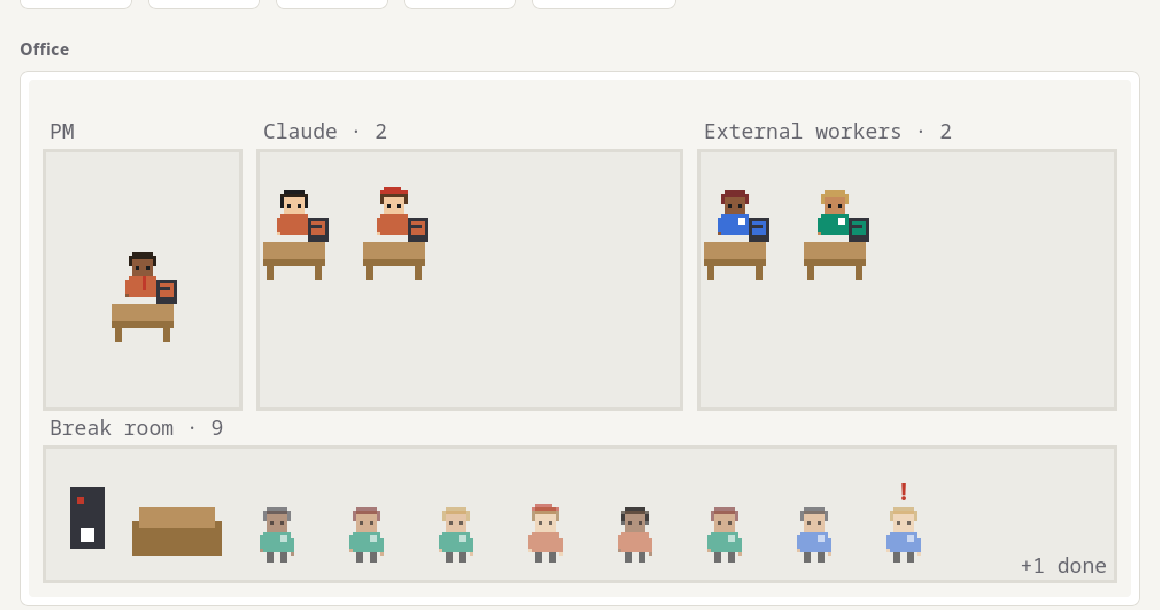
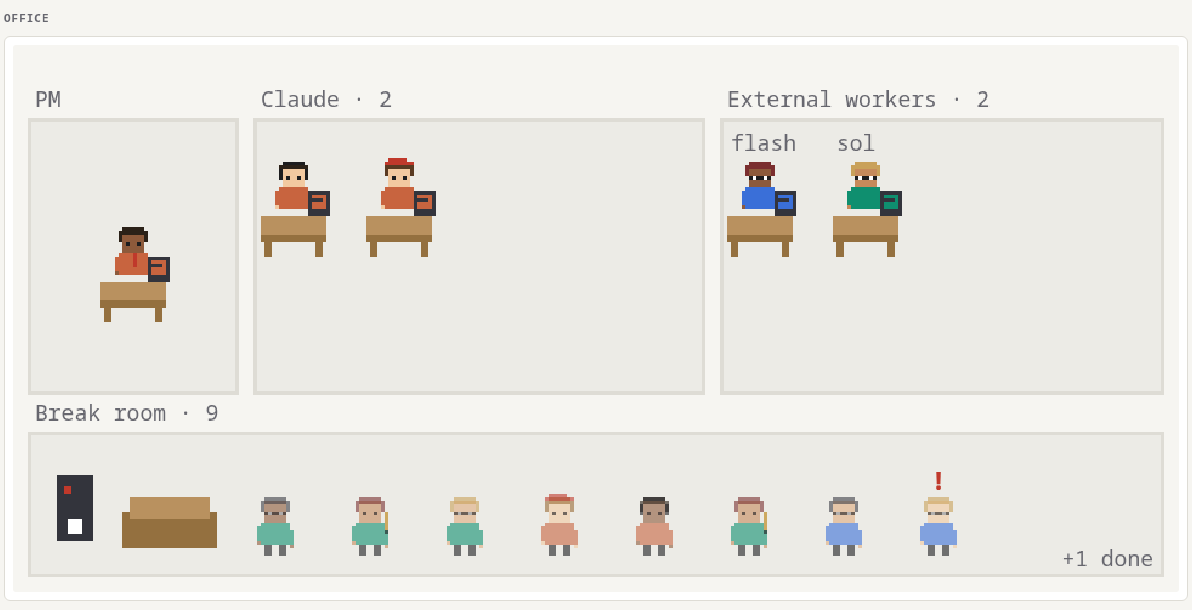
0015 ve 0016: izleme sayfası kararı ve ölçümleri, ortak hafıza taslağı; şerit adında efor yinelenmez, raporda gizli düğmeler, README resimleri ve metinleri

Changed region(s): [[0.0, 0.1246, 0.9931, 0.9967], [0.0621, 0.3738, 0.1552, 0.5607], [0.0, 0.0, 0.0621, 0.0934]]

diff --git a/skills/watch/page.html b/skills/watch/page.html
@@ -269,7 +269,8 @@ function kim(i) {
 // A timeline lane: the role for a Claude agent, the model and effort for an external worker.
 function seritAdi(i) {
   if (i.kaynak === "claude") return String(i.rol || "agent").replace(/^polycrew:/, "");
-  return (i.model || i.kaynak) + (i.efor && i.efor !== "-" ? " " + i.efor : "");
+  const model = i.model || i.kaynak, efor = i.efor && i.efor !== "-" ? String(i.efor) : "";
+  return model + (efor && !String(model).endsWith("-" + efor) ? " " + efor : "");  // agy model names already end in the effort
 }
 function token(n) { return n == null ? "—" : n >= 1e6 ? (n / 1e6).toFixed(2) + "M" : n >= 1e3 ? Math.round(n / 1e3) + "k" : String(n); }
 

diff --git a/docs/decisions/0015-izleme-sayfasi-yeniden-tasarim.md b/docs/decisions/0015-izleme-sayfasi-yeniden-tasarim.md
@@ -1,0 +1,66 @@
+# 0015: İzleme sayfasının yeniden tasarımı
+
+- **Tarih:** 2026-11-12
+- **Durum:** Kabul edildi; `0003`'ün sayfasını yeniden düzenler, `0012`'nin ofisine etiket ekler, `0014`'ün çizelge notunu kapatır.
+
+## Bağlam
+
+Kullanıcı: "izleme sayfası genelde yarım sayfa oluyor, yanda oturum sohbeti var; yarım ekran olunca kaymalar oluyor, özellikle çalışma saatini gösteren kısımda. Ayrıca arayüz çok AI slop duruyor."
+
+Eski sayfa gerçek olay günlüğüyle 560 ve 700 px genişlikte ölçüldü:
+
+| Sorun | Ölçüm |
+|---|---|
+| Eksenin ilk etiketi sol kenarda kesiliyor | 560 px'te `04/10 03:00` yerine `/10 03:00` |
+| Tarihli etiketler yapışıyor | 700 px'te 6 aralığın 6'sı 4 px'ten dar |
+| Etiket sütunu sabit 16rem | 700 px'te 655 px'lik kutunun 378 px'i çubuğa kalıyor |
+| İş başına bir satır | "Hepsi"de 175 iş → çizelge 4240 px |
+| Harita ve tablo yana taşıyor | 700 px'te harita 969/668, tablo 840/666 |
+
+Ortak neden: kırılma noktaları (640, 700 px) pencereye bakıyordu ve yarım panel tam o eşiklere düşüyordu. Görünümde de hiyerarşi yoktu: her şey aynı kenarlıklı kutu, beş eşit sayaç, altı eşit bölüm, aynı iş dört yerde.
+
+![Yeni sayfa 560 px genişlikte, Türkçe, örnek veri](img/0015-yarim-genislik.png)
+
+## Kararlar
+
+1. **Çizelge işçi başına şerit.** Satır bir işçidir: Claude agent'ında rol, dış işçide model ve efor. İşler o şeritte çubuktur; zamanı çakışan işler şeridin alt satırına iner. Çalışanı olan şerit üstte, sonra son etkinliğe göre. Model ayrımı şeritte yok (günlükte aynı model üç ayrı adla geçiyor: `sonnet`, `claude-sonnet-5-5`, boş); iş listesinde ve çubuğun üstüne gelince görünür.
+2. **Eksen ölçülen genişliğe göre.** Adım, etiketleri sığan en küçük adımdır (etiket başına 38 px, gün ve saat birlikteyse 76 px, artı 12 px boşluk; en çok 8 etiket). Kenardan taşacak etiket kenara yaslanır, komşusuna değecek etiket atılır. Günlük adımda etiket yalnız gündür ve yerel gece yarısına düşer (`0014`'te UTC gece yarısı yerelde `03:00` görünüyordu). Panel sürüklenince `ResizeObserver` yeniden çizer.
+3. **Eksen işlerin aralığına oturur.** Kimse çalışmıyorsa son işin bitişinde biter; "şimdi"ye kadar boş uzamaz (`0014`'ün açık notu).
+4. **Beş sayaç kutusu yerine tek durum satırı.** Çalışan ve hata sayıları sıfır değilse renkli; "bilinmiyor" yalnız varsa görünür.
+5. **"Şimdi çalışanlar" yalnız çalışan varken çizilir.**
+6. **İş tablosu yerine tek liste.** Genişte tek satır, 760 px altında üç kısa satır; yana kaymaz. En yeni 40 iş, altında "Tümünü göster (N)".
+7. **Agent haritası her genişlikte girintili ağaç** (sabit 360 px düğümler kalktı) ve katlanır. Yalnız ağacın derinliği varsa (lider ya da agent başlatan agent) kendiliğinden açık gelir; kullanıcının seçimi yenilemede korunur.
+8. **Kırılmalar kapsayıcıya bağlı** (`container-type: inline-size`, `@container`): 760 px (liste), 400 px (şerit etiketi çubuğun üstüne).
+9. **Görsel dil.** Kimlik piksel ofisten: bölüm başlıkları küçük, büyük harf, mono; sayılar mono ve `tabular-nums`. Bölümler kutuyla değil üst çizgi ve boşlukla ayrılır; kenarlıklı yüzey yalnız ofiste, çalışan kartlarında ve yan panelde. Kartların sol renk şeridi kalktı. Başlıkta üç sağlayıcının renginde üç kare. Dış font ve kütüphane yok. Renk değişkenleri aynı (canvas onları okuyor).
+10. **Ofiste etiket (`0012`'nin açığı).** Masadaki işçinin başının üstünde model kısaltması (`gpt-6.1-sol` → `sol`, `gemini-3.8-flash-high` → `flash`); aynı odada aynı etiket birden çoksa başlama sırasıyla numara (`sol1`, `sol2`). Okur gözlüklü, yazar kalemli.
+11. Saf mantık `CIZELGE-MANTIK` işaretleri arasında (`cizelgeSeritler`, `cizelgeEksen`), `OFIS-MANTIK` gibi Node ile test edilir. `watch.py`, `api/durum` ve gömülü raporun veri şeması değişmedi.
+
+### Denenip bırakılanlar
+
+- Şerit adı olarak tam `kim()` (rol + model, model + efor + okur/yazar): "Hepsi"de 28 şerit, 560 px'te 1386 px. Rol ya da model + efor ile 14 şerit, 398 px.
+- Şerit etiketini 560 px altında çubuğun üstüne almak: her şerit iki satır oluyordu. Eşik 400 px'e indi; yarım panelde etiket yanda kalır.
+- Ofis etiketini masanın altına yazmak: ikinci sıranın etiketi odanın dışına, dinlenme köşesinin başlığına taşıyordu. Başın üstüne alındı.
+
+## Ölçümler
+
+Aynı gerçek günlük, "Hepsi" penceresi (177 iş), uygulamanın tarayıcı panelinde:
+
+| Genişlik | Yatay taşma | Eksen etiketi | Üst üste | Kutunun dışında | Şerit | Çizelge yüksekliği |
+|---|---|---|---|---|---|---|
+| 400 px | yok | 7 | 0 | 0 | 14 | 728 px |
+| 560 px | yok | 6 | 0 | 0 | 14 | 398 px (önce 4240) |
+| 700 px | yok | 7 | 0 | 0 | 14 | 398 px |
+| 1100 px | yok | 7 | 0 | 0 | 14 | 398 px |
+
+- 12 saatlik pencerede 560 ve 700 px: 2 şerit, 66 px, etiketler `14:05 14:10`.
+- Durağan rapor (`watch.py report`), 560 px, açık tema: taşma yok, 177 çubuğun hiçbiri şeridin dışında değil.
+- Tarayıcıda görülüp düzeltilenler: 5 haftalık eksende çalışan işin 3 px'lik çubuğu sağ kenarda kesiliyordu (`left: min(…, 100% - 3px)`); raporda pencere düğmeleri `hidden` olduğu hâlde görünüyordu (`.seg { display: inline-flex }` eziyordu; eski sayfada da vardı), `[hidden] { display: none !important }` eklendi.
+- 91 test yeşil (85 + 6): şeritler ve alt satırlar, çalışanın önceliği, eksenin dar genişlikte seyrelmesi ve taşmaması (5 genişlik × 4 aralık), kenar hizası, etiket türü ve yerel gece yarısı, ofis etiketleri.
+- README resimleri örnek günlükle yeniden alındı (`docs/img/ornek_gunluk.py`, `watch.py report`, başsız Chrome 1400 px).
+
+## Açık kalan
+
+- "Hepsi"de haftalara yayılan eksende çubuklar çizgi kalınlığında; oturumlara göre kümeleme ya da yakınlaştırma yok.
+- PM düğümünün süresi işlerin toplamı (paralel işlerde duvar saatinden uzun); eski davranış, dokunulmadı.
+- Çubuklar klavyeyle gezilmiyor; klavye yolu iş listesi ve harita.
+- Gerçek bir takım oturumunda yarım panelde bu oturum boyunca açık kaldı (iki işçi çalışırken); başka bir projede denenmedi.

diff --git a/skills/watch/SKILL.md b/skills/watch/SKILL.md
@@ -16,11 +16,11 @@ Events are collected in one log (`hooks/events.py`, decision `0003`): Claude sub
    - in VS Code: `Ctrl+Shift+P → Simple Browser: Show` with the address;
    - otherwise give the address for a browser.
    The plugin cannot open it by itself: hooks only print text, and a server started from a hook does not outlive it.
-3. The page is in English and Turkish (by browser language; the EN/TR button or `?lang=tr`). It refreshes every 3 seconds: who is running now, the timeline (Claude orange, Codex green, Gemini blue), the agent map, quota bars (external quota once a minute via `external-agent.sh quota`), jobs and scores. Clicking a job or a map node shows its last report and task in the side panel.
+3. The page is in English and Turkish (by browser language; the EN/TR button or `?lang=tr`). It refreshes every 3 seconds: a status line, the office, who is running now, quota bars (external quota once a minute via `external-agent.sh quota`), the timeline (one lane per worker; Claude orange, Codex green, Gemini blue), jobs and scores, the agent map. Clicking a bar, a job or a map node shows its last report and task in the side panel. The layout follows the page's own width, so it reads in the half-width browser pane next to the chat.
 
 ## Office
 
-The first section of the page is a small pixel office. The PM sits on the left; every running Claude agent sits at a desk in the Claude room and every running external worker (Codex, agy) in the external workers' room, typing, with the monitor in the provider's color. Finished jobs stand in the break room, dimmed: the last 8, the rest as "+N done". A failed job has a red "!" over its head, an unknown one a "?". Each role has a small accessory (developer headphones, reviewer magnifier, artist beret, designer ruler, researcher book, lead tie). Hovering shows who it is and what it is doing; a click opens the same side panel as everywhere else. It is a picture of the same data: the cards, the map and the table below remain the accessible, complete view.
+The first section of the page is a small pixel office. The PM sits on the left; every running Claude agent sits at a desk in the Claude room and every running external worker (Codex, agy) in the external workers' room, typing, with the monitor in the provider's color. Finished jobs stand in the break room, dimmed: the last 8, the rest as "+N done". A failed job has a red "!" over its head, an unknown one a "?". Each role has a small accessory (developer headphones, reviewer magnifier, artist beret, designer ruler, researcher book, lead tie; an external worker wears glasses when read-only and holds a pencil when it writes). A worker at a desk has a short label from its model name (`sol`, `flash`), numbered when several share it (`sol1`, `sol2`). Hovering shows who it is and what it is doing; a click opens the same side panel as everywhere else. It is a picture of the same data: the timeline, the job list and the map below remain the accessible, complete view.
 
 ## Claude quota
 
@@ -39,7 +39,7 @@ The Claude card comes first; context is a separate thin row. With no Claude meas
 
 ## Agent map
 
-The jobs in the selected time window appear as a PM → lead → worker tree. External workers (Codex, agy) sit directly under the PM. Nodes show role, model (if known), provider color, state, duration and score if any; a click or Enter/space opens the side panel. The same tree is embedded in the session report.
+The jobs in the selected time window appear as an indented PM → lead → worker tree, folded until the tree has depth (a lead, or an agent that started agents). External workers (Codex, agy) sit directly under the PM. Nodes show role, model (if known), provider color, state, duration and score if any; a click or Enter/space opens the side panel. The same tree is embedded in the session report.
 
 The parent link comes from the hook's `ham.parent_agent_id`, `ham.parent_session_id`, the launch payload's `ham.agent_id`, or a `ham.transcript_path` that belongs to the parent agent. `ham.session_id` counts as a parent only if it matches a known agent or agent session id; the shared PM session id alone is no proof of a link. If no link is found, the parent is outside the selected window, or there is a cycle, the node attaches to the PM (decision `0005`). The real log's current samples carry no explicit parent field; those jobs stay under the PM.
 

diff --git a/README.tr.md b/README.tr.md
@@ -115,13 +115,13 @@ Ardından açık oturumda `/reload-plugins` çalıştır ya da yeni bir oturum a
 
 Sayfa `http://localhost:8770` adresinde açılır. Oturumun planında takım ya da dış işçi işi varsa `/session-start` onu kendisi açar, `/team` de açık olduğuna bakar. Claude masaüstü uygulamasında yerleşik tarayıcı panesinde açılır; VS Code'da `Ctrl+Shift+P → Simple Browser: Show` ile. Kanca bunu senin yerine yapamaz: kancalar yalnız metin basar, kancadan başlatılan sunucu onunla birlikte kapanır. İngilizce ve Türkçedir: tarayıcının diline göre açılır, EN/TR düğmeleri ya da `?lang=tr` ile değişir. Birkaç saniyede bir yenilenir ve şunları gösterir:
 
-- **Ofis:** küçük bir piksel ofis. PM solda oturur; çalışan Claude agent'ları ve dış işçiler kendi odalarında masalarında, işi bitenler dinlenme köşesinde durur (hata alanın başında kırmızı "!" olur). Bir figürün üstüne gelince kim olduğu görünür, tıklayınca raporu açılır.
+- **Ofis:** küçük bir piksel ofis. PM solda oturur; çalışan Claude agent'ları ve dış işçiler kendi odalarında masalarında, işi bitenler dinlenme köşesinde durur (hata alanın başında kırmızı "!" olur). Masadaki işçinin üstünde modelinden kısa bir etiket vardır (`sol`, `flash`; aynısı birden çoksa `sol1`, `sol2`), okur gözlüklü, yazar kalemlidir. Bir figürün üstüne gelince kim olduğu görünür, tıklayınca raporu açılır.
 - **Şimdi çalışanlar:** rol ya da model, iş, geçen süre.
-- **Agent haritası:** soldan sağa bir ağaç; kökte PM, dallarında başlattığı işçiler (Claude rolleri, Codex, Gemini). Çalışan işçi yeşildir ve nabız gibi atar, biten solar, üstte sayım durur. "Kim ne yapıyor, kimi kim başlattı" sorusunu tek bakışta yanıtlar.
-- **Zaman çizelgesi:** Claude turuncu, Codex yeşil, Gemini mavi. Bir şeride tıklayınca işçinin son raporu ve görevi açılır.
+- **Zaman çizelgesi:** işçi başına bir şerit (Claude agent'ında rol, dış işçide model), işleri çubuk olarak; aynı anda koşan işler şeridin içinde alt alta durur. Claude turuncu, Codex yeşil, Gemini mavi. Eksen sayfanın genişliğine göre kurulur, yarım panelde de okunur. Bir çubuğa tıklayınca işçinin son raporu ve görevi açılır.
 - **Kota:** sağlayıcı başına bir kart, son ölçümüyle: Codex'in 5 saatlik ve haftalık penceresi, Gemini, agy üzerinden Claude ve Claude Code'un kendisi. Pencerenin yenilenme saatinden eski ölçüm soluk ve "eski ölçüm" etiketiyle görünür.
   - Claude'un kendi kullanımı CLI'dan okunmuyor. PM onu okur (masaüstü uygulamasının kullanım aracı ya da `/usage`) ve `skills/watch/claude-quota.py --five-hour <%> --week <%> ...` ile yazar; betik argümansız son ölçümü yazdırır, 5 saatlik pencerenin %80'inde ya da haftanın %70'inde uyarır. Kendiliğinden güncellenmez.
-- **İşler ve puanlar:** süre, token, durum ve PM'in gerekçeli 1–5 puanı.
+- **İşler ve puanlar:** süre, token, durum ve PM'in gerekçeli 1–5 puanı; en yeni 40 iş, gerisi düğmeyle.
+- **Agent haritası:** girintili bir ağaç; kökte PM, altında başlattığı işçiler (Claude rolleri, Codex, Gemini). Çalışan işçi yeşil ve nabız gibi atar, biten solar, başlıkta sayım durur. Lider ya da iç içe agent ağaca derinlik verene kadar katlı gelir.
 
 Arka planda:
 
@@ -131,7 +131,7 @@ Arka planda:
 - Tek sunucu bütün projelere hizmet eder. Tek projeyi görmek için `http://localhost:8770/?project=<ad>`; üstteki seçici değiştirir. Parametresiz sayfa bütün projeleri gösterir.
 - Resimler örnek bir günlükten: `docs/img/ornek_gunluk.py en|tr <dosya>`.
 
-![Canlı takım sayfasının tamamı: sayaçlar, ofis, şimdi çalışanlar, zaman çizelgesi, agent haritası, sağlayıcı başına kota kartları, işler ve puanlar](docs/img/izle-tr.png)
+![Canlı takım sayfasının tamamı: durum satırı, ofis, şimdi çalışanlar, sağlayıcı başına kota, işçi başına şeritli zaman çizelgesi, işler ve puanlar, agent haritası](docs/img/izle-tr.png)
 
 ## Kadro (`roster.py`)
 

diff --git a/README.md b/README.md
@@ -100,13 +100,13 @@ Then run `/reload-plugins` in an open session, or start a new one.
 
 The page runs at `http://localhost:8770`. `/session-start` opens it by itself when the session's plan includes team or external work, and `/team` makes sure it is up. In the Claude desktop app it opens in the built-in browser pane; in VS Code, open it with `Ctrl+Shift+P → Simple Browser: Show`. A hook cannot start it for you: hooks only print text, and a server started from a hook dies with it. It is in English and Turkish: it follows your browser language, and the EN/TR buttons or `?lang=en` switch it. It refreshes every few seconds and shows:
 
-- **Office:** a small pixel office. The PM sits on the left, running Claude agents and running external workers sit at desks in their own rooms, and finished jobs stand in the break room (a failed one has a red "!"). Hover a figure to see who it is, click it for its report.
+- **Office:** a small pixel office. The PM sits on the left, running Claude agents and running external workers sit at desks in their own rooms, and finished jobs stand in the break room (a failed one has a red "!"). A worker at a desk carries a short label from its model (`sol`, `flash`; `sol1`, `sol2` when several share one), a read-only worker wears glasses and a writer holds a pencil. Hover a figure to see who it is, click it for its report.
 - **Running now:** role or model, task, elapsed time.
-- **Agent map:** a left-to-right tree with the PM at the root and the workers it started (Claude roles, Codex, Gemini) as branches. Running workers are green and pulse, finished ones fade, and a count sits on top. It answers "who is doing what, and who started whom" at a glance.
-- **Timeline:** Claude in orange, Codex in green, Gemini in blue. Click a bar to see the worker's last report and its task.
+- **Timeline:** one lane per worker (the role for a Claude agent, the model for an external worker) with its jobs as bars; jobs that ran at the same time stack inside the lane. Claude in orange, Codex in green, Gemini in blue. The axis fits the width of the page, so it stays readable in a half-width pane. Click a bar to see the worker's last report and its task.
 - **Quotas:** one card per provider with its latest measurement: Codex 5-hour and weekly windows, Gemini, Claude through agy, and Claude Code itself. A measurement older than the window's reset time is dimmed and marked as stale.
   - Claude's own usage cannot be read from the CLI. The PM reads it (the desktop app's usage tool, or `/usage`) and records it with `skills/watch/claude-quota.py --five-hour <%> --week <%> ...`; without arguments the script prints the last measurement, and it warns at 80% of the 5-hour window or 70% of the week. It does not update by itself.
-- **Jobs and scores:** duration, tokens, status and the PM's 1–5 score with a reason.
+- **Jobs and scores:** duration, tokens, status and the PM's 1–5 score with a reason; the newest 40, with a button for the rest.
+- **Agent map:** an indented tree with the PM at the root and the workers it started (Claude roles, Codex, Gemini) under it. Running workers pulse green, finished ones fade, and a count sits in the heading. It is folded until a lead or a nested agent gives the tree some depth.
 
 Under the hood:
 
@@ -116,7 +116,7 @@ Under the hood:
 - One server serves every project. Open `http://localhost:8770/?project=<name>` to see one project; the selector at the top switches. Without it the page shows all projects.
 - The screenshots come from an example log: `docs/img/ornek_gunluk.py en|tr <file>`.
 
-![The whole live team page: counters, office, running now, timeline, agent map, quota cards for each provider, jobs and scores](docs/img/izle-en.png)
+![The whole live team page: status line, office, running now, quotas for each provider, timeline with one lane per worker, jobs and scores, agent map](docs/img/izle-en.png)
 
 ## The roster (`roster.py`)
 

diff --git a/docs/decisions/0016-ortak-hafiza.md b/docs/decisions/0016-ortak-hafiza.md
@@ -1,0 +1,44 @@
+# 0016: Ortak hafıza (taslak)
+
+- **Tarih:** 2026-11-12
+- **Durum:** İncelemede. Yön kullanıcıyla kararlaştırıldı; kod yazılmadı, açık sorular aşağıda.
+
+## Bağlam
+
+Kullanıcı: "Bu eklentinin amacı tüm CLI araçlarını tek yerden kontrol edebilmek. Öbür ajanların hafızasını da burada birleştirerek ortak bir hafıza kurmak iyi olur; ama sadece proje bazlı değil, genel kurallar da olsun: bir genel hafıza, bir de proje özelinde hafıza."
+
+Bu makinede araçların kendi hafızaları (2026-11-12):
+
+| Araç | Yer | Biçim |
+|---|---|---|
+| Codex | `~/.codex/memories_1.sqlite` | iç boru hattı (`stage1_outputs`, `jobs`), belgelenmemiş; `AGENTS.md` yok |
+| agy | `~/.gemini/antigravity-cli/brain/`, `knowledge/` | oturum başına klasörler, iç biçim; `GEMINI.md` yok |
+| Claude | `~/.claude/projects/<proje>/memory/*.md` | düz markdown, madde başına dosya ve `MEMORY.md` dizini; genel `CLAUDE.md` yok |
+
+Dış işçiler bugün Claude'un hafızasını da `rules/git.md`'yi de okumuyor; kurallar onlara yalnız `external-agent.sh`'in göreve eklediği satırla ulaşıyor (`0006`).
+
+## Kararlar
+
+1. **Hafızanın sahibi polycrew'dür.** Codex ve agy'nin depolarına yazılmaz, oradan okunmaz: biçimleri belgelenmemiş, sürümle değişir. Ortak hafıza düz markdown dosyalarıdır; araçlara polycrew'ün zaten elinde olan iki kapıdan verilir.
+2. **İki katman.**
+   - **Genel:** `~/.config/polycrew/memory/`. Kullanıcının her projede geçerli tercihleri ve işçi tuzakları ("Gemini Pro dar izinle bitiremiyor"). `~/.cache` değil: önbellek silinebilir, hafıza silinmemeli.
+   - **Proje:** proje klasöründe, git'te. O projenin öğrenilmiş dersleri; projeyi kuran başkası da alır, worktree'lerde hazır gelir.
+3. **Okuma.** Dış işçiye `external-agent.sh` görev metnine ekler; Claude oturumuna `SessionStart` kancası basar. Bütün hafıza değil: dizin ve işin rolüne, alanına uyan maddeler, karakter bütçesiyle. Düzeni kullanmayan projede hiçbir şey okunmaz ve yazılmaz (kancaların kuralı).
+4. **Yazma PM'dedir.** İşçi hafızaya yazmaz; raporuna "Lessons" satırı koyar. PM `/session-end`'de adayları ayıklar ve yazar. Paralel yazma çakışması ve çöp birikmesi böyle önlenir.
+5. **Sağlayıcı sınırı.** Genel hafıza Codex ve Gemini'ye, yani başka şirketin modeline gider. Madde "yalnız Claude" işareti taşıyabilir; işaretli madde dış işçinin görevine eklenmez.
+6. **Hafıza kural değildir.** Projenin `CLAUDE.md`'si ve `rules/git.md` önce gelir; çelişen madde uygulanmaz, PM'e bildirilir.
+7. **İçe aktarma.** Claude'un proje hafızaları düz markdown olduğu için tek seferlik, kullanıcının onayıyla madde madde. Codex ve agy için içe aktarma yok.
+8. **Tuzak adayları** (`0017`): düşük puanın gerekçesi hafızanın ilk otomatik kaynağıdır; yine yalnız aday, PM ayıklar.
+
+## Açık sorular
+
+- Proje içindeki klasörün adı (`.polycrew/memory/`, `docs/memory/`?) ve `/project-setup`'ın onu kurup kurmayacağı.
+- Madde biçimi: Claude'unki gibi ön bilgili dosya mı (ad, tür, rol, alan, sağlayıcı sınırı), tek dosyada liste mi.
+- Bütçe: görev başına kaç karakter; aşılınca hangi madde düşer (yaş mı, eşleşme mi).
+- Eskime: bir madde ne zaman silinir; yeni model çıkınca işçi tuzakları sıfırlanır mı.
+- Claude oturumunun kendi otomatik hafızasıyla (aynı proje için ikinci bir hafıza) çakışma: hangisi kaynak, çift kayıt nasıl önlenir.
+- Proje hafızası git'te olduğu için gizli bilgi sızması: yazmadan önce denetim.
+
+## Sıradaki adım
+
+Açık sorular kullanıcıyla kapatılır, sonra en küçük dilim: iki klasör, `memory.py` (listele, ekle, role göre seç), `external-agent.sh`'e ekleme, `/session-end`'e ayıklama adımı; ilk deneme Pixlender'da.
